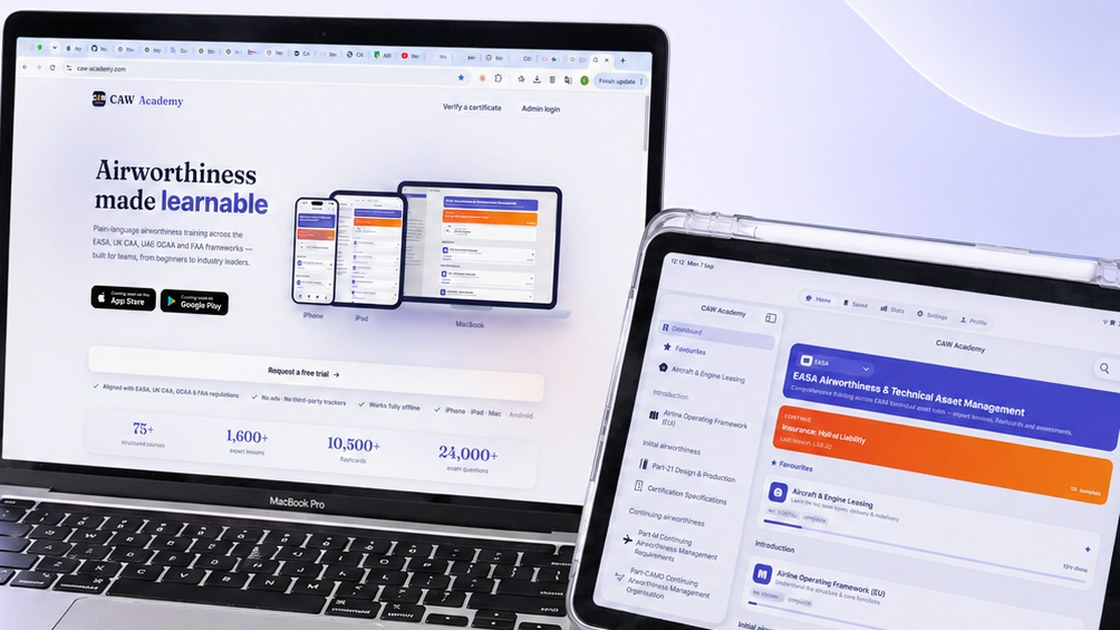
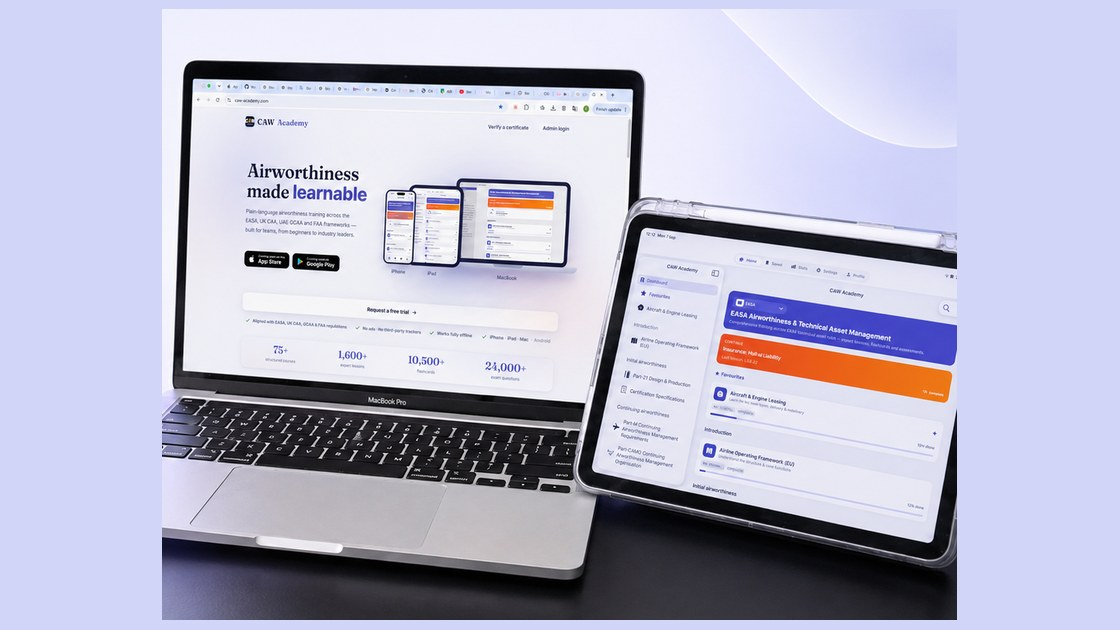
Add files via upload

diff --git a/assets/site.css b/assets/site.css
@@ -892,8 +892,8 @@
   /* Placed rather than object-fit:cover — cover scales the image up to fill a
      tall viewport, which made the aircraft enormous on iPad portrait. Sizing it
      by width and anchoring bottom-right keeps it small and out of the map. */
-  .sec.coverage .covbg img{position:absolute;right:-5%;bottom:-7%;left:auto;top:auto;
-    width:min(70%,1150px);height:auto;display:block;opacity:.34;
+  .sec.coverage .covbg img{position:absolute;right:-2%;bottom:1%;left:auto;top:auto;
+    width:min(62%,900px);height:auto;display:block;opacity:.55;
     /* the gradient must hit full transparency INSIDE the box, or the image's
        own rectangle shows as a hard edge. 60% radius reaching transparent at
        72% means every edge and corner is already at zero alpha. */
@@ -926,9 +926,16 @@
     text-shadow:0 1px 3px rgba(4,26,36,.9)}
   .sec.coverage h2,.sec.coverage .sub,.sec.coverage .eyebrow,.sec.coverage .covnote{
     text-shadow:0 1px 4px rgba(4,26,36,.75)}
+  /* Portrait/narrow: the legend and hover card stack under the map and fill the
+     lower half, so a bottom-anchored aircraft ends up hidden behind them.
+     Anchor it from the top instead, into the band just below the map. */
+  @media(max-width:1000px){
+    .sec.coverage .covbg img{top:44%;bottom:auto;right:-8%;
+      width:min(82%,660px);opacity:.55}
+  }
   @media(max-width:640px){
-    .sec.coverage .covbg img{opacity:.62}
-    .sec.coverage .covbg:after{background:rgba(6,42,56,.66)}
+    .sec.coverage .covbg img{top:41%;width:min(94%,520px);opacity:.58}
+    .sec.coverage .covbg:after{background:rgba(11,65,82,.40)}
   }
   /* the AOG tile keeps its sand identity: warm wash instead of petrol */
   .t-aog.t-photo .tbg:after{
@@ -988,6 +995,17 @@
   .cawband h2{font-family:"Source Serif 4",Georgia,serif;font-weight:700;text-transform:none;
     font-size:clamp(26px,3.2vw,38px);letter-spacing:-.01em;color:var(--caw-navy);margin:0;flex:0 0 auto}
   .cawband p{margin:0;font-size:17px;line-height:1.6;color:#4A5170;max-width:74ch}
+  /* Full marketing banner replaces the split hero. The headline, subcopy, store
+     badges and CTA are all inside the artwork, so the surrounding HTML text was
+     removed to avoid printing it twice; the whole banner is the link. */
+  .cawbanner{display:block;border-radius:26px;overflow:hidden;margin:8px 0 34px;
+    box-shadow:0 30px 70px -34px rgba(60,60,120,.45);
+    transition:transform .3s ease,box-shadow .3s ease}
+  .cawbanner img{width:100%;height:auto;display:block}
+  .cawbanner:hover{transform:translateY(-3px);
+    box-shadow:0 36px 80px -32px rgba(60,60,120,.55)}
+  @media(max-width:640px){.cawbanner{border-radius:18px;margin:4px 0 26px}}
+
   /* the hero carries the real device photo. .agrid / .stores markup was removed
      with the app-store badges; their base rules above are now dead but harmless. */
   .cawart img{width:100%;height:auto;display:block;border-radius:16px;

diff --git a/index.html b/index.html
@@ -9,7 +9,7 @@
 <link rel="preconnect" href="https://fonts.googleapis.com">
 <link rel="preconnect" href="https://fonts.gstatic.com" crossorigin>
 <link href="https://fonts.googleapis.com/css2?family=Barlow+Semi+Condensed:wght@500;600;700&family=Source+Sans+3:wght@300;400;600;700&family=Source+Serif+4:opsz,wght@8..60,400;8..60,600;8..60,700&display=swap" rel="stylesheet">
-<link rel="stylesheet" href="assets/site.css?v=93">
+<link rel="stylesheet" href="assets/site.css?v=95">
 <style>
 /* critical: gallery works even with a stale external stylesheet */
 .intro{align-items:start}
@@ -470,24 +470,9 @@
     
   </div>
   <div class="wrap">
-    <div class="cawtop">
-      <div class="lockup">
-        <img src="assets/img/caw-icon.png" alt="CAW Academy app icon">
-        <div class="wm">CAW <i>Academy</i></div>
-      </div>
-    </div>
-
-
-    <div class="cawhero">
-      <div class="cawhero-copy">
-        <h2 class="caw-h">Airworthiness made <b>learnable</b></h2>
-        <p>Study on the aircraft, in the crew room or offline on the way home. One licence, every device.</p>
-        <a class="trialbar" href="https://caw-academy.com" target="_blank" rel="noopener">Request a free trial <span>&rarr;</span></a>
-      </div>
-      <div class="cawart">
-        <img src="assets/img/caw-real.jpg" alt="CAW Academy open in a browser on a MacBook and running on an iPad alongside">
-      </div>
-    </div>
+    <a class="cawbanner" href="https://caw-academy.com" target="_blank" rel="noopener">
+      <img src="assets/img/caw-banner.jpg" alt="CAW Academy — airworthiness made learnable. Plain-language airworthiness training across the EASA, UK CAA, UAE GCAA and FAA frameworks, built for teams from beginners to industry leaders. Shown running on MacBook and iPad. Coming soon on the App Store and Google Play.">
+    </a>
 
     <div class="cawband">
       <h2>We make aviation regulation easy to learn</h2>
@@ -633,7 +618,7 @@
   <a class="p" href="tel:+491622684626">Call ops</a>
   <a class="s" href="contact.html">Send enquiry</a>
 </nav>
-<script src="assets/site.js?v=93"></script>
+<script src="assets/site.js?v=95"></script>
 <script>
 /* critical: gallery controls, independent of the external bundle */
 (function(){

diff --git a/training.html b/training.html
@@ -9,7 +9,7 @@
 <link rel="preconnect" href="https://fonts.googleapis.com">
 <link rel="preconnect" href="https://fonts.gstatic.com" crossorigin>
 <link href="https://fonts.googleapis.com/css2?family=Barlow+Semi+Condensed:wght@500;600;700&family=Source+Sans+3:wght@300;400;600;700&family=Source+Serif+4:opsz,wght@8..60,400;8..60,600;8..60,700&display=swap" rel="stylesheet">
-<link rel="stylesheet" href="assets/site.css?v=93">
+<link rel="stylesheet" href="assets/site.css?v=95">
 </head>
 <body>
 <div class="progress" id="progress" aria-hidden="true"></div>
@@ -70,24 +70,9 @@
 <section class="sec academy" id="academy">
   
   <div class="wrap">
-    <div class="cawtop">
-      <div class="lockup">
-        <img src="assets/img/caw-icon.png" alt="CAW Academy app icon">
-        <div class="wm">CAW <i>Academy</i></div>
-      </div>
-    </div>
-
-
-    <div class="cawhero">
-      <div class="cawhero-copy">
-        <h2 class="caw-h">Airworthiness made <b>learnable</b></h2>
-        <p>Study on the aircraft, in the crew room or offline on the way home. One licence, every device.</p>
-        <a class="trialbar" href="https://caw-academy.com" target="_blank" rel="noopener">Request a free trial <span>&rarr;</span></a>
-      </div>
-      <div class="cawart">
-        <img src="assets/img/caw-real.jpg" alt="CAW Academy open in a browser on a MacBook and running on an iPad alongside">
-      </div>
-    </div>
+    <a class="cawbanner" href="https://caw-academy.com" target="_blank" rel="noopener">
+      <img src="assets/img/caw-banner.jpg" alt="CAW Academy — airworthiness made learnable. Plain-language airworthiness training across the EASA, UK CAA, UAE GCAA and FAA frameworks, built for teams from beginners to industry leaders. Shown running on MacBook and iPad. Coming soon on the App Store and Google Play.">
+    </a>
 
     <div class="cawband">
       <h2>We make aviation regulation easy to learn</h2>
@@ -159,6 +144,6 @@
   <a class="p" href="tel:+491622684626">Call ops</a>
   <a class="s" href="contact.html">Send enquiry</a>
 </nav>
-<script src="assets/site.js?v=93"></script>
+<script src="assets/site.js?v=95"></script>
 </body>
 </html>

diff --git a/contact.html b/contact.html
@@ -9,7 +9,7 @@
 <link rel="preconnect" href="https://fonts.googleapis.com">
 <link rel="preconnect" href="https://fonts.gstatic.com" crossorigin>
 <link href="https://fonts.googleapis.com/css2?family=Barlow+Semi+Condensed:wght@500;600;700&family=Source+Sans+3:wght@300;400;600;700&family=Source+Serif+4:opsz,wght@8..60,400;8..60,600;8..60,700&display=swap" rel="stylesheet">
-<link rel="stylesheet" href="assets/site.css?v=93">
+<link rel="stylesheet" href="assets/site.css?v=95">
 </head>
 <body>
 <div class="progress" id="progress" aria-hidden="true"></div>
@@ -164,6 +164,6 @@
   <a class="p" href="tel:+491622684626">Call ops</a>
   <a class="s" href="contact.html">Send enquiry</a>
 </nav>
-<script src="assets/site.js?v=93"></script>
+<script src="assets/site.js?v=95"></script>
 </body>
 </html>

diff --git a/coverage.html b/coverage.html
@@ -9,7 +9,7 @@
 <link rel="preconnect" href="https://fonts.googleapis.com">
 <link rel="preconnect" href="https://fonts.gstatic.com" crossorigin>
 <link href="https://fonts.googleapis.com/css2?family=Barlow+Semi+Condensed:wght@500;600;700&family=Source+Sans+3:wght@300;400;600;700&family=Source+Serif+4:opsz,wght@8..60,400;8..60,600;8..60,700&display=swap" rel="stylesheet">
-<link rel="stylesheet" href="assets/site.css?v=93">
+<link rel="stylesheet" href="assets/site.css?v=95">
 </head>
 <body>
 <div class="progress" id="progress" aria-hidden="true"></div>
@@ -147,6 +147,6 @@
   <a class="p" href="tel:+491622684626">Call ops</a>
   <a class="s" href="contact.html">Send enquiry</a>
 </nav>
-<script src="assets/site.js?v=93"></script>
+<script src="assets/site.js?v=95"></script>
 </body>
 </html>

diff --git a/fleet.html b/fleet.html
@@ -9,7 +9,7 @@
 <link rel="preconnect" href="https://fonts.googleapis.com">
 <link rel="preconnect" href="https://fonts.gstatic.com" crossorigin>
 <link href="https://fonts.googleapis.com/css2?family=Barlow+Semi+Condensed:wght@500;600;700&family=Source+Sans+3:wght@300;400;600;700&family=Source+Serif+4:opsz,wght@8..60,400;8..60,600;8..60,700&display=swap" rel="stylesheet">
-<link rel="stylesheet" href="assets/site.css?v=93">
+<link rel="stylesheet" href="assets/site.css?v=95">
 </head>
 <body>
 <div class="progress" id="progress" aria-hidden="true"></div>
@@ -202,6 +202,6 @@
   <a class="p" href="tel:+491622684626">Call ops</a>
   <a class="s" href="contact.html">Send enquiry</a>
 </nav>
-<script src="assets/site.js?v=93"></script>
+<script src="assets/site.js?v=95"></script>
 </body>
 </html>

diff --git a/impressum.html b/impressum.html
@@ -9,7 +9,7 @@
 <link rel="preconnect" href="https://fonts.googleapis.com">
 <link rel="preconnect" href="https://fonts.gstatic.com" crossorigin>
 <link href="https://fonts.googleapis.com/css2?family=Barlow+Semi+Condensed:wght@500;600;700&family=Source+Sans+3:wght@300;400;600;700&family=Source+Serif+4:opsz,wght@8..60,400;8..60,600;8..60,700&display=swap" rel="stylesheet">
-<link rel="stylesheet" href="assets/site.css?v=93">
+<link rel="stylesheet" href="assets/site.css?v=95">
 </head>
 <body>
 <div class="progress" id="progress" aria-hidden="true"></div>
@@ -123,6 +123,6 @@
   <a class="p" href="tel:+491622684626">Call ops</a>
   <a class="s" href="contact.html">Send enquiry</a>
 </nav>
-<script src="assets/site.js?v=93"></script>
+<script src="assets/site.js?v=95"></script>
 </body>
 </html>

diff --git a/prebuy.html b/prebuy.html
@@ -9,7 +9,7 @@
 <link rel="preconnect" href="https://fonts.googleapis.com">
 <link rel="preconnect" href="https://fonts.gstatic.com" crossorigin>
 <link href="https://fonts.googleapis.com/css2?family=Barlow+Semi+Condensed:wght@500;600;700&family=Source+Sans+3:wght@300;400;600;700&family=Source+Serif+4:opsz,wght@8..60,400;8..60,600;8..60,700&display=swap" rel="stylesheet">
-<link rel="stylesheet" href="assets/site.css?v=93">
+<link rel="stylesheet" href="assets/site.css?v=95">
 </head>
 <body>
 <div class="progress" id="progress" aria-hidden="true"></div>
@@ -151,6 +151,6 @@
   <a class="p" href="tel:+491622684626">Call ops</a>
   <a class="s" href="contact.html">Send enquiry</a>
 </nav>
-<script src="assets/site.js?v=93"></script>
+<script src="assets/site.js?v=95"></script>
 </body>
 </html>

diff --git a/services.html b/services.html
@@ -9,7 +9,7 @@
 <link rel="preconnect" href="https://fonts.googleapis.com">
 <link rel="preconnect" href="https://fonts.gstatic.com" crossorigin>
 <link href="https://fonts.googleapis.com/css2?family=Barlow+Semi+Condensed:wght@500;600;700&family=Source+Sans+3:wght@300;400;600;700&family=Source+Serif+4:opsz,wght@8..60,400;8..60,600;8..60,700&display=swap" rel="stylesheet">
-<link rel="stylesheet" href="assets/site.css?v=93">
+<link rel="stylesheet" href="assets/site.css?v=95">
 </head>
 <body>
 <div class="progress" id="progress" aria-hidden="true"></div>
@@ -261,6 +261,6 @@
   <a class="p" href="tel:+491622684626">Call ops</a>
   <a class="s" href="contact.html">Send enquiry</a>
 </nav>
-<script src="assets/site.js?v=93"></script>
+<script src="assets/site.js?v=95"></script>
 </body>
 </html>

diff --git a/team.html b/team.html
@@ -9,7 +9,7 @@
 <link rel="preconnect" href="https://fonts.googleapis.com">
 <link rel="preconnect" href="https://fonts.gstatic.com" crossorigin>
 <link href="https://fonts.googleapis.com/css2?family=Barlow+Semi+Condensed:wght@500;600;700&family=Source+Sans+3:wght@300;400;600;700&family=Source+Serif+4:opsz,wght@8..60,400;8..60,600;8..60,700&display=swap" rel="stylesheet">
-<link rel="stylesheet" href="assets/site.css?v=93">
+<link rel="stylesheet" href="assets/site.css?v=95">
 </head>
 <body>
 <div class="progress" id="progress" aria-hidden="true"></div>
@@ -139,6 +139,6 @@
   <a class="p" href="tel:+491622684626">Call ops</a>
   <a class="s" href="contact.html">Send enquiry</a>
 </nav>
-<script src="assets/site.js?v=93"></script>
+<script src="assets/site.js?v=95"></script>
 </body>
 </html>
